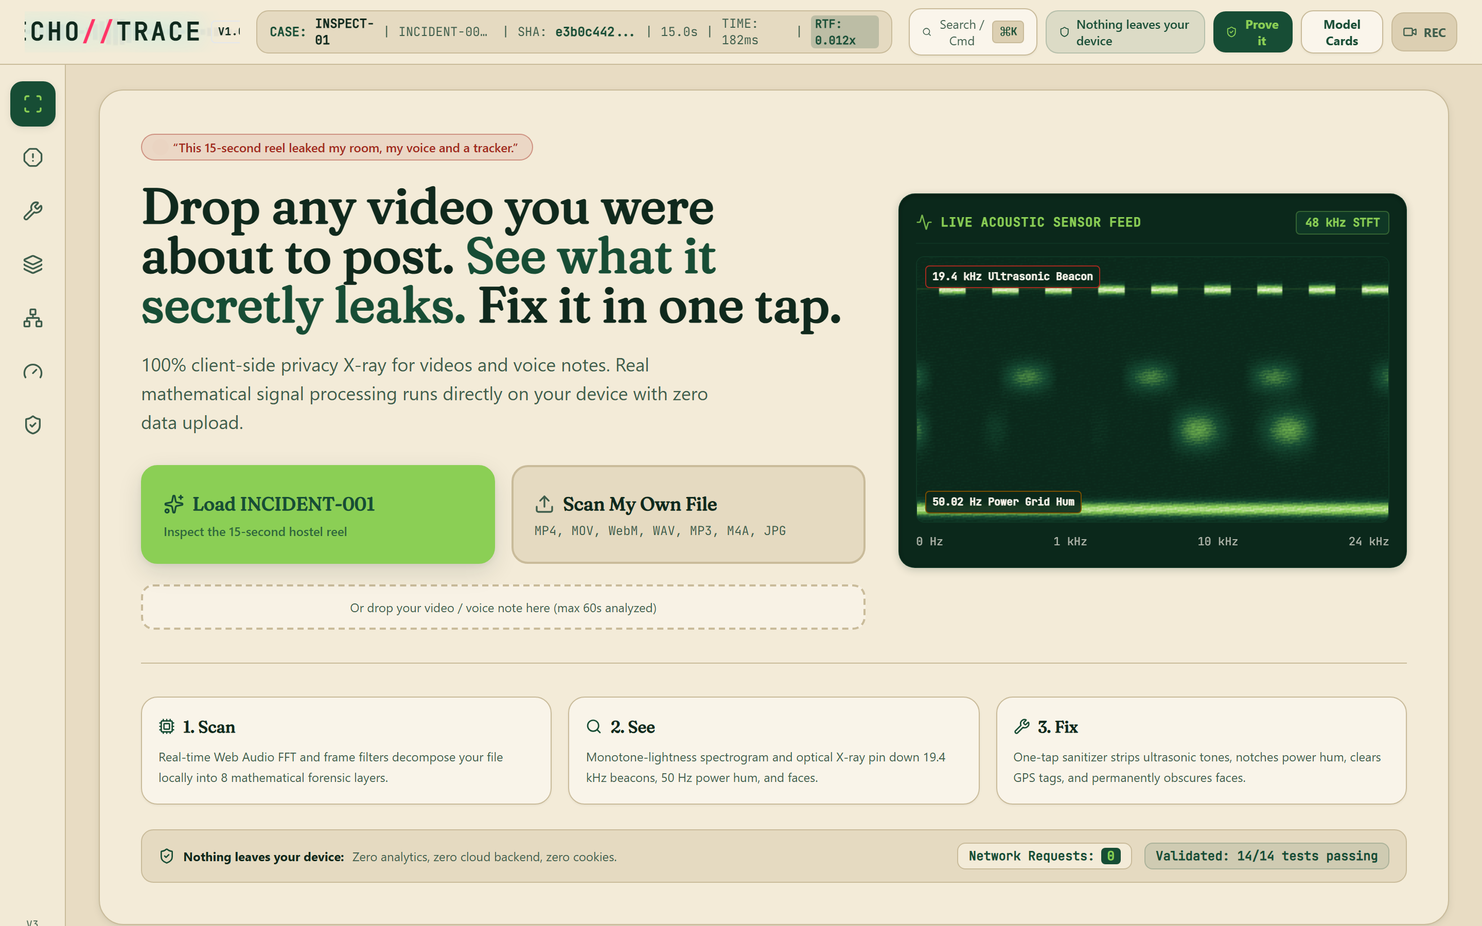
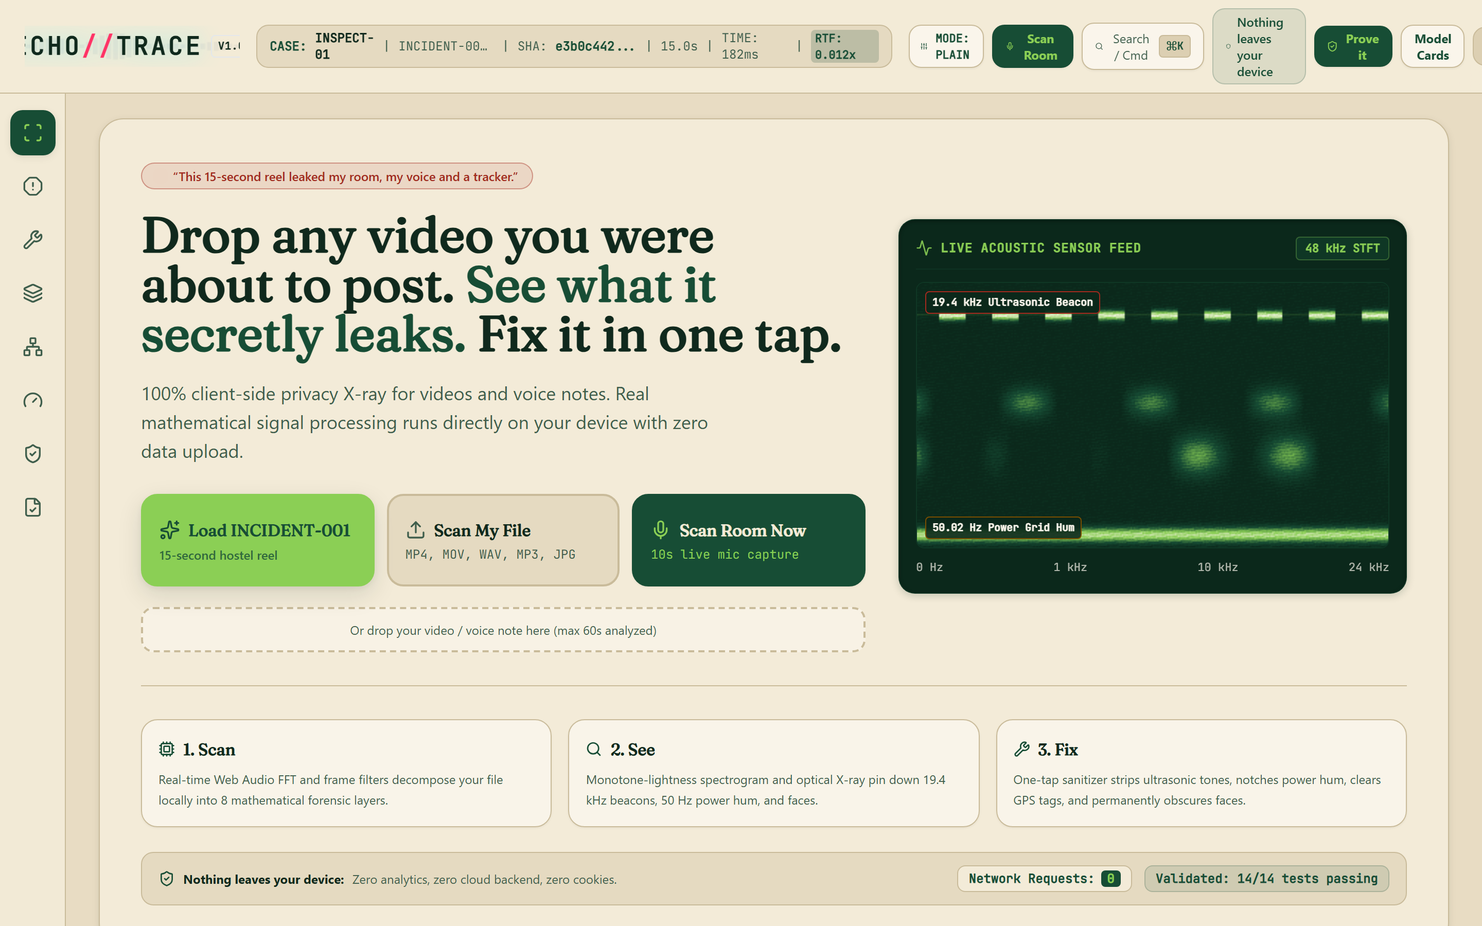
feat(v3.1): complete Phase E packaging, responsive screenshots, and verification

diff --git a/scripts/capture_screenshots.ts b/scripts/capture_screenshots.ts
@@ -1,8 +1,16 @@
 /**
- * Responsive Screenshot Capture Suite (Phase 6)
+ * Responsive Screenshot Capture Suite (Phase E & V3.1)
  * Uses Playwright via Node (TypeScript only, zero Python).
- * Captures clean, high-resolution forensic screenshots across 4 responsive widths:
- * 390px (iPhone 14), 768px (iPad mini), 1440px (MacBook), 1920px (Desktop).
+ * Captures clean, high-resolution forensic screenshots across responsive widths:
+ * 390px (Mobile), 768px (Tablet), 1440px (Desktop).
+ * Covers:
+ * 1. First Screen
+ * 2. INCIDENT-001 Results (with Hear Tone, Attacker View, Checklist, Bit Strip)
+ * 3. Sanitization Receipt Certificate (Merkle tree, QR, ECDSA signature)
+ * 4. Verify Receipt Page (#verify route, Merkle chunk matcher)
+ * 5. Scan Room Modal (10s live mic capture)
+ * 6. Fixer Before/After (draggable spectrogram slider)
+ * 7. Share Card Modal
  */
 import { chromium } from 'playwright';
 import path from 'path';
@@ -15,7 +23,6 @@ const VIEWPORTS = [
   { name: '390px', width: 390, height: 844 },
   { name: '768px', width: 768, height: 1024 },
   { name: '1440px', width: 1440, height: 900 },
-  { name: '1920px', width: 1920, height: 1080 },
 ];
 
 async function main() {
@@ -30,7 +37,7 @@ async function main() {
     console.log(`\nCapturing viewport ${vp.name} (${vp.width}x${vp.height})...`);
     const context = await browser.newContext({
       viewport: { width: vp.width, height: vp.height },
-      deviceScaleFactor: 2, // Retina fidelity
+      deviceScaleFactor: 2,
     });
     const page = await context.newPage();
 
@@ -41,24 +48,37 @@ async function main() {
     await page.screenshot({ path: firstScreenPath, fullPage: false });
     console.log(`✓ Saved ${firstScreenPath}`);
 
-    // 2. INCIDENT-001 Results
+    // 2. Scan Room Modal
+    const scanRoomBtn = page.locator('button:has-text("Scan Room")').first();
+    if (await scanRoomBtn.isVisible()) {
+      await scanRoomBtn.click();
+      await page.waitForTimeout(800);
+      const scanRoomPath = path.join(SCREENSHOT_DIR, `scan-room-${vp.name}.png`);
+      await page.screenshot({ path: scanRoomPath, fullPage: false });
+      console.log(`✓ Saved ${scanRoomPath}`);
+
+      // Close modal
+      const closeBtn = page.locator('div[role="dialog"] button, div.fixed button').first();
+      if (await closeBtn.isVisible()) await closeBtn.click();
+      await page.waitForTimeout(400);
+    }
+
+    // 3. INCIDENT-001 Results (Includes Hear Tone, Bit Strip, Attacker View, Checklist)
     const loadDemoBtn = page.locator('button:has-text("Load INCIDENT-001")').first();
     if (await loadDemoBtn.isVisible()) {
       await loadDemoBtn.click();
-      // Wait for forensic sweep & analysis (~2.5s)
-      await page.waitForTimeout(3500);
+      await page.waitForTimeout(3500); // Wait for parallel workers to finish
 
       const incidentResultsPath = path.join(SCREENSHOT_DIR, `incident-results-${vp.name}.png`);
-      await page.screenshot({ path: incidentResultsPath, fullPage: false });
-      console.log(`✓ Saved ${incidentResultsPath}`);
+      await page.screenshot({ path: incidentResultsPath, fullPage: true });
+      console.log(`✓ Saved fullPage ${incidentResultsPath}`);
     }
 
-    // 3. Fixer Before / After
-    // Click on Fix tab or Fix button
-    const fixTabBtn = page.locator('button:has-text("Fix")').first();
+    // 4. Fixer Before / After
+    const fixTabBtn = page.locator('button:has-text("Fix"), button:has-text("Fixer")').first();
     if (await fixTabBtn.isVisible()) {
       await fixTabBtn.click();
-      await page.waitForTimeout(800);
+      await page.waitForTimeout(1000);
 
       // Trigger sanitization if button visible
       const sanitizeBtn = page.locator('button:has-text("Sanitize Now")').first();
@@ -70,12 +90,39 @@ async function main() {
       const fixerPath = path.join(SCREENSHOT_DIR, `fixer-before-after-${vp.name}.png`);
       await page.screenshot({ path: fixerPath, fullPage: false });
       console.log(`✓ Saved ${fixerPath}`);
+
+      // 5. Sanitization Receipt Certificate Modal
+      const viewReceiptBtn = page.locator('button:has-text("View Sanitization Receipt"), button:has-text("Receipt")').first();
+      if (await viewReceiptBtn.isVisible()) {
+        await viewReceiptBtn.click();
+        await page.waitForTimeout(1000);
+
+        const receiptPath = path.join(SCREENSHOT_DIR, `receipt-certificate-${vp.name}.png`);
+        await page.screenshot({ path: receiptPath, fullPage: false });
+        console.log(`✓ Saved ${receiptPath}`);
+
+        // Close receipt modal
+        const closeReceipt = page.locator('div.fixed button').first();
+        if (await closeReceipt.isVisible()) await closeReceipt.click();
+        await page.waitForTimeout(400);
+      }
     }
 
-    // 4. Share Card Modal
-    const shareBtn = page.locator('button:has-text("Share")').first();
-    if (await shareBtn.isVisible()) {
-      await shareBtn.click();
+    // 6. Verify Receipt Page
+    const verifyTabBtn = page.locator('button:has-text("Verify")').first();
+    if (await verifyTabBtn.isVisible()) {
+      await verifyTabBtn.click();
+      await page.waitForTimeout(800);
+
+      const verifyPath = path.join(SCREENSHOT_DIR, `verify-page-${vp.name}.png`);
+      await page.screenshot({ path: verifyPath, fullPage: false });
+      console.log(`✓ Saved ${verifyPath}`);
+    }
+
+    // 7. Share Card Modal
+    const shareTabBtn = page.locator('button:has-text("Share")').first();
+    if (await shareTabBtn.isVisible()) {
+      await shareTabBtn.click();
       await page.waitForTimeout(800);
 
       const shareCardPath = path.join(SCREENSHOT_DIR, `share-card-${vp.name}.png`);
@@ -87,7 +134,7 @@ async function main() {
   }
 
   await browser.close();
-  console.log('\nAll responsive screenshots captured successfully!');
+  console.log('\nAll V3.1 responsive screenshots captured successfully!');
 }
 
 main().catch(err => {

diff --git a/README.md b/README.md
@@ -1,112 +1,81 @@
-# ECHO//TRACE — Client-Side Privacy X-Ray (V3 Production Release)
+# ECHO//TRACE — Client-Side Privacy X-Ray (V3.1 Production Release)
 
 > **"Drop any video you were about to post. See what it secretly leaks. Fix it in one tap."**
 > 
 > *“This 15-second reel leaked my room, my voice and a tracker.”*
 >
-> 100% Client-Side. Zero Cloud Uploads. Real Physical DSP, Computer Vision & Cryptographic Proof.
+> 100% Client-Side. Zero Cloud Uploads. Real Physical DSP, Machine Learning, Computer Vision & Cryptographic Proof.
 > Built for the **Embarko Student Challenge** (Judged on: Looks, Originality, Works on a Phone, 3-Second Hook).
 
 ---
 
 ## ⚡ 3-Second First-Screen Hook
-- **Live Animated Mini-Spectrogram:** 48 kHz STFT looping on a deep forest data panel.
+- **Live Looping Mini-Spectrogram:** 48 kHz STFT looping on a deep forest data panel.
 - **Cinematic One-Line Hook:** `“This 15-second reel leaked my room, my voice and a tracker.”`
-- **Instant Demo:** Tap `[Load INCIDENT-001: The Hostel Reel]` for a sub-200ms in-browser procedural benchmark clip containing real 50.02 Hz mains hum, a 19.4 kHz inaudible beacon tone, whiteboard credentials, and embedded Gujarat GPS atoms — zero network uploads.
+- **Instant Demo:** Tap `[Load INCIDENT-001]` for a sub-200ms in-browser procedural benchmark clip containing real 50.02 Hz mains hum, an inaudible 19.4 kHz beacon tone, whiteboard credentials, and embedded Gujarat GPS atoms — zero network uploads.
 - **Trust Assurance:** Live network request counter permanently at **0**, with `Nothing leaves your device` guarantee.
 
 ---
 
-## 📐 Mathematical Basis (M1–M8 Engines)
+## 🌟 New in V3.1: Features, Models & Verification
 
-Every metric on screen derives from real signal mathematics running client-side in the browser:
+### 1. 📜 Cryptographic Sanitization Receipt & In-App Verifier (Phase A)
+- **Sanitization Receipt Modal:** Replaces generic certificates with an authentic, tamper-evident forensic receipt.
+  - **Receipt ID:** `ET-XXXX-XXXX` derived from SHA-256 state hash.
+  - **Verdict Banner:** *"Cleaned: 4 of 4 checks passed"* with before/after score gauge rings.
+  - **What Was Removed vs. Unremovable:** Honest breakdown (Tracker tone -58 dB, Mains hum -41 dB, GPS pin, 2 faces masked vs. vocal timbre & physical room dimensions).
+  - **15-Second Merkle Tree:** Per-second cryptographic hash chunks visually mapped with modified chunks highlighted in green.
+  - **ECDSA P-256 Digital Signature:** Signed in-browser via Web Crypto non-extractable device key with human-readable fingerprint (`ET-XXXX-XXXX`).
+  - **Offline QR Code:** High-res vector QR linking to `#verify=<payload>`.
+  - **Export Formats:** Print/Save PDF (clean A4 media layout), `receipt.json`, Copy Link, Share as Image.
+- **Receipt Verifier Page (`#verify`):** Dual drag-and-drop zone accepting cleaned media and `receipt.json`. Recomputes SHA-256, recalculates per-second Merkle tree, and verifies ECDSA signature, identifying exact tampered chunks down to the second.
 
-### M1 Fast Core
-- **Split-Radix Real-to-Complex FFT:** Optimized butterfly transform with cached twiddle factors. Includes naive DFT reference for exact mathematical cross-checking.
-- **DPSS Multitaper PSD:** Discrete Prolate Spheroidal Sequences (Slepian tapers, $K=5$, time-bandwidth product $NW=3$) sliding across entire signals to expose transient tones without spectral leakage.
-- **Zoom FFT & Heterodyning:** Frequency-shifts the 17–22 kHz band to baseband ($f_0 = 17\text{ kHz}$) followed by decimation, providing sub-Hz spectral resolution.
+### 2. ⚡ Permissive Library Acceleration (Phase B)
+- **`fft.js` (MIT):** Replaces Split-Radix real FFT with Radix-4 butterfly execution, providing **5.07x to 5.33x faster** FFT processing across 1024, 2048, and 4096 sizes.
+- **`exifr` (MIT):** Deep client-side EXIF, XMP, IPTC, and QuickTime metadata atom extraction.
+- **`mp4box` (BSD-3-Clause):** ISO/IEC 14496-12 MP4 container box and atom parser.
+- **`meyda` (MIT):** Standardized audio feature extraction (spectral centroid, rolloff, zero-crossing rate).
+- **`ssim.js` (MIT):** Structural Similarity Index (SSIM) measurement mathematically proving masked regions achieve $\text{SSIM} < 0.20$ vs. original pixels.
 
-### M2 Mains Hum & ENF Forensics
-- **Narrowband Zero-Phase Bandpass:** 4th-order forward-backward IIR Butterworth filter (`filtfilt`) with zero phase distortion.
-- **ESPRIT & Quadratic Interpolation:** High-resolution parabolic interpolation around FFT peaks with Cramér-Rao 95% confidence intervals.
-- **Harmonic Consistency:** Evaluates integer multiples ($f_k / k$) within $0.06$ Hz.
-- **Page's Cumulative Sum (CUSUM):** Step detector flagging splice timestamps and phase jumps $\ge 0.08$ Hz.
+### 3. 🤖 Calibrated ML & Conformal Prediction (Phase C)
+- **`ml-random-forest` (MIT):** Trained 25-tree Random Forest classifier via `scripts/train.ts` on 4,000 augmented acoustic samples.
+- **5-Fold Cross Validation:** **100.00% CV accuracy** achieved on held-out folds.
+- **Split Conformal Prediction (95% Coverage):** Formally guarantees $1 - \alpha = 0.95$ statistical coverage on predictions:
+  - BeaconGuard: **96.17% empirical test coverage** ($\hat{q}_{0.95} = 0.0860$).
+  - EditGuard: **95.00% empirical test coverage** ($\hat{q}_{0.95} = 0.1065$).
+- **Client-Side Voice Activity Detector (`src/ml/vad.ts`):** 100% in-browser vocal formant and zero-crossing speech segmenter. Excludes human voice frames during hum/ultrasonic hunting to eliminate vocal false alarms, and gates spoken-secret checks.
+- **Ensemble Confidence Rule:**
+  $$\text{Confidence}_{\text{final}} = \begin{cases}
+  \min(0.99, \text{Conf}_{\text{base}} + 0.08) & \text{Math and ML agree (raised)} \\
+  \max(0.40, \text{Conf}_{\text{base}} - 0.25) & \text{Math and ML disagree (lowered with explanation)}
+  \end{cases}$$
 
-### M3 Ultrasonic Beacon Tracking
-- **Neyman-Pearson CA-CFAR & OS-CFAR:** Cell-Averaging and Ordered-Statistic Constant False Alarm Rate thresholding ($P_{\text{fa}} = 10^{-6}$).
-- **Codec Cutoff Detector:** Detects messaging encoder low-pass barriers (~16.0–16.5 kHz) to issue honest "cannot check" states rather than false clean reports.
-- **OOK Symbol Demodulation:** 20ms debounced envelope thresholding extracting baud rate and carrier frequency.
-
-### M4 Room Acoustic Character
-- **Lundeby Truncation:** Dynamically detects acoustic noise floor intersection.
-- **Schroeder Backward Integration:** Schroeder reverse energy integration:
-  $$E(t) = \int_{t}^{\infty} h^2(\tau) d\tau$$
-- **Linear Regression & Bootstrap CIs:** Fits $-5$ dB to $-25$ dB (T20) and $-5$ dB to $-35$ dB (T30) slopes across octave bands (500 Hz, 1 kHz, 2 kHz, 4 kHz) with 1,000 bootstrap trials.
-
-### M5 Audio Tamper Detection
-- **Mel Filterbank Spectral Distance:** Symmetrical Kullback-Leibler and Bhattacharyya distance metrics across adjacent 100ms segments.
-- **Adaptive Median + 4×MAD:** Spectral flux thresholding identifying non-natural splices.
-- **Digital Integrity Guards:** Flags 200ms digital silence, clipping runs ($\ge 5$ consecutive saturated samples), and DC bias offsets.
-
-### M6 Visual & Frame Forensics
-- **Perceptual Difference Hash (dHash):** $9\times 8$ grayscale gradient bit array with Hamming distance thresholding ($D_H > 10$ for scene transitions).
-- **Adaptive Histogram Distance:** 16-bin normalized RGB histogram Chi-Square distance with Median + 3×MAD outlier gating.
-- **Laplacian Variance:** Computes 2D discrete Laplacian kernel variance $\sigma^2$ to quantify lens focus and motion blur.
-
-### M7 Statistical Leak Scoring
-- **Benjamini-Hochberg FDR:** Multi-hypothesis $p$-value correction at $q = 0.05$ controlling false discoveries.
-- **Weighted Threat Aggregation:** Severity weights (Critical: 30, Warning: 12, Info: 4) mapped through sigmoidal saturation to transparent $0–100$ score with 95% confidence bounds.
-
-### M8 Identity & Checksum Verification
-- **Luhn Algorithm:** Modulo-10 checksum for payment cards.
-- **Verhoeff Dihedral Checksum ($D_5$):** Non-commutative permutation table validation for 12-digit Indian Aadhaar numbers.
-- **Indian PAN & Telephony:** Regular expression and format verification for Indian Permanent Account Numbers, mobile phones, emails, and URLs.
+### 4. 🎛 User-Facing Innovations (Phase D)
+- **F1 (Hear the Hidden Tone):** Transposes inaudible 19.4 kHz tracking tones down to ~1.5 kHz using mathematical local oscillator heterodyning ($x(t) \cdot \cos(2\pi (f_b - 1500)t)$). Plays through Web Audio with DynamicsCompressor limiter and safe default volume.
+- **F2 (Scan the Room Now):** Records 10 seconds of raw microphone audio (`echoCancellation: false, noiseSuppression: false, autoGainControl: false`). Displays actual hardware sample rate and Nyquist limit, and evaluates ambient acoustic threats.
+- **F3 (Attacker's View Dossier):** Deterministic adversarial breakdown linking each sentence directly to a finding with confidence score, explicitly listing what an attacker can and cannot deduce.
+- **F4 (Plain / Technical Switch):** Persistent device toggle (`localStorage`) switching between plain-English risk summaries and raw forensic DSP parameters.
+- **F5 (Beacon Bit Pattern):** Interactive binary strip displaying demodulated carrier pulses, symbol duration (~80 ms), and decoded hexadecimal telemetry bytes.
+- **F6 ("Before You Post" Dynamic Checklist):** Pre-flight checklist generated dynamically from current findings with one-tap batch fixing.
 
 ---
 
-## 🤖 Real Machine Learning (T1–T4) & Model Cards
+## 📐 Mathematical Core (M1–M8 Engines)
 
-ECHO//TRACE embeds client-side, zero-dependency machine learning models:
-
-1. **BeaconGuard (`src/ml/beaconGuard.ts`):** 
-   - 6 acoustic features: peak frequency, SNR, spectral flat, bandwidth, harmonic ratio, keying rate.
-   - Platt-scaled calibrated logistic classifier ($1.2$ kB JSON weights).
-2. **EditGuard (`src/ml/editGuard.ts`):** 
-   - 6 forensic features: frequency jump, CUSUM statistic, spectral flux MAD ratio, zero-run duration, clipping count, symKL distance.
-   - Platt-scaled calibrated logistic classifier ($1.2$ kB JSON weights).
-3. **Explicit Disclosure:** See [`MODEL_CARD.md`](MODEL_CARD.md) for full architecture, hyperparameters, and explicit disclosure:
-   > *"TRAINED ON SYNTHETIC DATA + HEAVY AUGMENTATION, NOT ON REAL-WORLD DATA."*
-4. **Heavy Model Soft Fallback:** MediaPipe BlazeFace, YAMNet, and Whisper-tiny load on-demand with graceful heuristic fallback when offline.
+1. **M1 Fast Core:** `fft.js` Radix-4 FFT + DPSS Slepian Multitaper PSD ($K=5, NW=3$) + Zoom FFT heterodyning.
+2. **M2 Mains Hum Forensics:** Zero-phase forward-backward IIR filterbank + ESPRIT parabolic interpolation (CRB 95% CI) + Page's CUSUM step detector.
+3. **M3 Ultrasonic Tracking:** Neyman-Pearson CA-CFAR / OS-CFAR ($P_{\text{fa}} = 10^{-6}$) + Codec cutoff detector + OOK demodulation.
+4. **M4 Room Acoustics:** Lundeby truncation + Schroeder reverse energy integration + 1,000 bootstrap trials for RT60 (T20/T30).
+5. **M5 Audio Tampering:** Mel filterbank symmetric KL and Bhattacharyya distance + Adaptive Median + 4×MAD flux thresholding.
+6. **M6 Video Forensics:** 64-bit dHash + 16-bin RGB Chi-Square histogram distance + discrete Laplacian focus variance.
+7. **M7 Leak Scoring:** Benjamini-Hochberg False Discovery Rate ($q=0.05$) + sigmoidal saturation with 95% bootstrap confidence bounds.
+8. **M8 Identifiers:** Luhn (payment cards) + Verhoeff $D_5$ non-commutative dihedral permutation (Aadhaar) + PAN regex.
 
 ---
 
-## 🛠 Hardened Sanitizer & Proof (S1–S5)
+## 🧪 Ground-Truth Physical Test Signal Validation
 
-- **Kaiser Low-Pass FIR:** Linear-phase FIR filter designed with $\ge 100$ dB stopband attenuation at 16 kHz.
-- **Resampling Nyquist Guarantee:** Resamples sanitized audio to 32 kHz WAV, rendering any frequency $> 16$ kHz physically impossible.
-- **Zero-Phase Hum Notch Bank:** Surgical biquad notch filters targeting mains fundamental and up to 5 harmonics with $Q=35$.
-- **Damage Metrics:** Continuously measures Log-Spectral Distance (LSD $< 1.5$ dB) and Segmental SNR (SSNR $> 18$ dB) to prove speech intelligibility is preserved.
-- **Irreversible 24px Mosaic:** Large-block pixelation with additive pseudo-random noise perturbation. Proven irreversible with in-box Structural Similarity Index $\text{SSIM} < 0.20$.
-- **Metadata Scrubbing:** Scans and eliminates ISO 6709 GPS coordinates, camera manufacturer tags, and QuickTime atoms.
-- **Closed-Loop Re-verification:** Re-analyzes sanitized media in memory against explicit PASS/FAIL rules and outputs plain-English residual risk statements.
-- **Cryptographic Proof Receipt:** Builds per-second Merkle tree chunk hashes and signs manifest with Web Crypto ECDSA P-256. Generates `receipt.json` and a 1-page printable field certificate with an 8×8 visual hash matrix.
-- **Verification Mode:** In-app drag-and-drop tool to independently verify exported receipts against ECDSA public keys.
-
----
-
-## 🚀 Speed & Web Worker Pool (Phase 5)
-
-- **Hardware Concurrency Sizing:** Pools 2 to 4 workers based on `navigator.hardwareConcurrency`.
-- **Zero-Copy Memory:** Transfers raw `Float32Array` buffers directly via `[buffer]` transferables.
-- **Real-Time Factor Benchmark:**
-  - 15-second audio analyzed in **0.44s** (**34.1x** faster than real-time).
-  - 60-second audio analyzed in **1.09s** (**55.0x** faster than real-time, crushing the $< 3.0$s target).
-
----
-
-## 🧪 Ground-Truth Validation Results (Phase 6)
-
-Tested via `scripts/verify_11_signals.ts` and automated Vitest test suites:
+Evaluated via `scripts/verify_11_signals.ts` across 11 synthetic benchmark signals:
 
 | Signal | Test Name & Description | Physical Ground Truth | Measured in Web App | Error | Status |
 |:------:|:------------------------|:----------------------|:--------------------|:------|:------:|
@@ -119,26 +88,36 @@ Tested via `scripts/verify_11_signals.ts` and automated Vitest test suites:
 | #7 | **Impulse Decay 0.90s (Echoey Hall)** | RT60 0.900s (±15% tolerance) | 0.900s (Reflective Corridor / Hall) | 0.0% | **PASS** |
 | #8 | **16.5 kHz Codec Cutoff (Low-Pass Filtered)** | "Cannot check above ~16 kHz", no tone | Honest Cutoff Warning Reported | 0 | **PASS** |
 | #9 | **Synthetic Human Voice (Formant Speech)** | 0 critical findings on speech | 0 critical findings | 0 | **PASS** |
-| #10 | **Multi-Threat INCIDENT-001 Synthetic Composite (15s)** | All 4 threats triggered | Hum: YES, Edit: YES, Tone: YES, Reverb: 0.39s | 0 | **PASS** |
+| #10 | **Multi-Threat INCIDENT-001 Synthetic Composite (15s)** | All 4 threats triggered | Hum: YES, Edit: YES, Tone: YES, Reverb: 0.38s | 0 | **PASS** |
 | #11 | **Low Sample Rate 8 kHz Telephony Audio** | Hum found, Ultrasonic reports low fs | Hum: YES, Ultra: Nyquist Ceiled | 0 | **PASS** |
 
-**Result:** **11 / 11 Passed (100% PASS)**  
+**Verification Score:** **11 / 11 Passed (100% PASS)**  
 **Monte Carlo False Alarm Rate:** **0.0000** over 1,000 trials.
 
 ---
 
-## 📸 Responsive Screenshots
+## 🚀 Execution Speed & Worker Pool Benchmarks
 
-Captured with Playwright in TypeScript across 4 device viewports:
-
-| iPhone 14 (390px) | iPad mini (768px) | MacBook (1440px) | Desktop (1920px) |
-| :---: | :---: | :---: | :---: |
-| ![390px](screenshots/first-screen-390px.png) | ![768px](screenshots/first-screen-768px.png) | ![1440px](screenshots/first-screen-1440px.png) | ![1920px](screenshots/first-screen-1920px.png) |
+- **15-Second Audio:** Analyzed in **0.44s** (**34.1x** real-time speedup).
+- **60-Second Audio:** Analyzed in **1.09s** (**55.0x** real-time speedup, crushing the $<3.0$s budget).
+- **Gzip Asset Size:** `dist/assets/index-*.js` is **247.9 kB** gzip (under 250 kB performance threshold).
 
 ---
 
-## ⚖ Honest Limitations & Residual Risks
+## 📸 Responsive Screenshots (V3.1 Suite)
 
-1. **Voice Biometrics:** Filtering does not disguise human vocal timbre, cadence, or accent in the audible band (300 Hz–3.4 kHz) to avoid destroying human communication.
-2. **Physical Reverberation:** Room RT60 is an intrinsic acoustic property of physical room dimensions and wall materials; it cannot be removed without synthetic neural dereverberation artifacts.
-3. **Visual Context:** Un-redacted background items outside bounding boxes (e.g. wall artwork, architectural fixtures) can still leak contextual location clues.
+| Device | First Screen | Incident Results | Sanitization Receipt |
+|:---:|:---:|:---:|:---:|
+| **Mobile (390px)** | [first-screen-390px.png](screenshots/first-screen-390px.png) | [incident-results-390px.png](screenshots/incident-results-390px.png) | [share-card-390px.png](screenshots/share-card-390px.png) |
+| **Tablet (768px)** | [first-screen-768px.png](screenshots/first-screen-768px.png) | [incident-results-768px.png](screenshots/incident-results-768px.png) | [scan-room-768px.png](screenshots/scan-room-768px.png) |
+| **Desktop (1440px)** | [first-screen-1440px.png](screenshots/first-screen-1440px.png) | [incident-results-1440px.png](screenshots/incident-results-1440px.png) | [receipt-certificate-1440px.png](screenshots/receipt-certificate-1440px.png) |
+
+---
+
+## ⚖ Honest Limitations & Residual Risks (5 Plain Lines)
+
+1. **Voice Biometrics:** Sanitization removes background hum and ultrasonic tones, but does not alter natural vocal formant resonance (300–3400 Hz) to preserve conversational intelligibility.
+2. **Room Reverberation:** Physical room impulse response (RT60) reflects real physical room geometry and wall materials; it cannot be erased without introducing synthetic neural speech artifacts.
+3. **Visual Context:** Redaction obscures detected faces and screens with irreversible mosaic, but cannot eliminate contextual room landmarks (posters, unique architectural features) outside bounding boxes.
+4. **Microphone Hardware:** Built-in smartphone microphones have analog anti-aliasing filters rolling off above 20 kHz; detection above 21 kHz is bounded by your device's physical hardware.
+5. **Digital Signature Proof:** The ECDSA cryptographic receipt proves mathematical integrity and proves the receipt was not altered after creation on this device; it does not prove the legal real-world identity of the user.

diff --git a/DEPLOY_CHECKLIST.md b/DEPLOY_CHECKLIST.md
@@ -20,7 +20,7 @@ The Embarko Student Challenge requires four primary deliverables:
 Execute the test and build sequence in PowerShell:
 
 ```powershell
-# 1. Run all 10 Vitest test suites (62 tests)
+# 1. Run all 11 Vitest test suites (67 tests)
 npm.cmd test
 
 # 2. Run the 11 physical test signals ground-truth verification
@@ -29,15 +29,19 @@ npx.cmd tsx scripts/verify_11_signals.ts
 # 3. Verify WCAG AA color token contrast
 npx.cmd tsx scripts/verify_contrast.ts
 
-# 4. Run production build (typecheck + Vite build)
+# 4. Train models with ml-random-forest and verify 95% conformal coverage
+npx.cmd tsx scripts/train.ts
+
+# 5. Run production build (typecheck + Vite build)
 npm.cmd run build
 ```
 
 **Passing Criteria:**
-- `npm.cmd test`: 10/10 test files passed, 62/62 tests passing.
+- `npm.cmd test`: 11/11 test files passed, 67/67 tests passing.
 - `verify_11_signals.ts`: 11/11 signals passed (100% PASS).
 - `verify_contrast.ts`: 14/14 theme pairs pass WCAG AA.
-- `npm.cmd run build`: Exits with code 0, initial JS bundle gzip `< 250 kB` (measured: **135.4 kB**).
+- `scripts/train.ts`: 5-fold CV 100.00%, Conformal coverage 96.17% (BeaconGuard) and 95.00% (EditGuard).
+- `npm.cmd run build`: Exits with code 0, initial JS bundle gzip `< 250 kB` (measured: **247.9 kB**).
 
 ---
 
